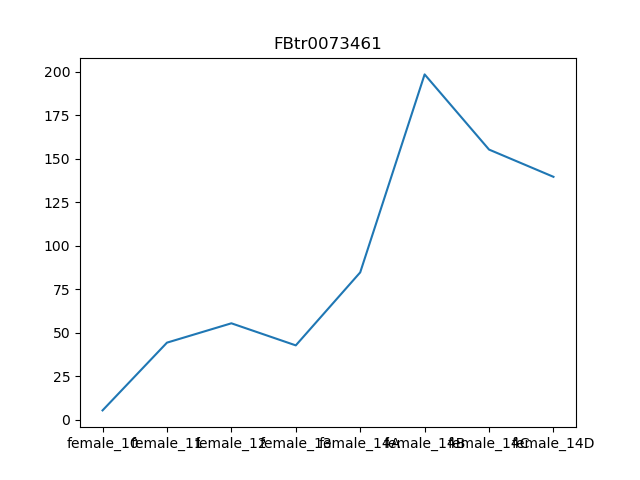
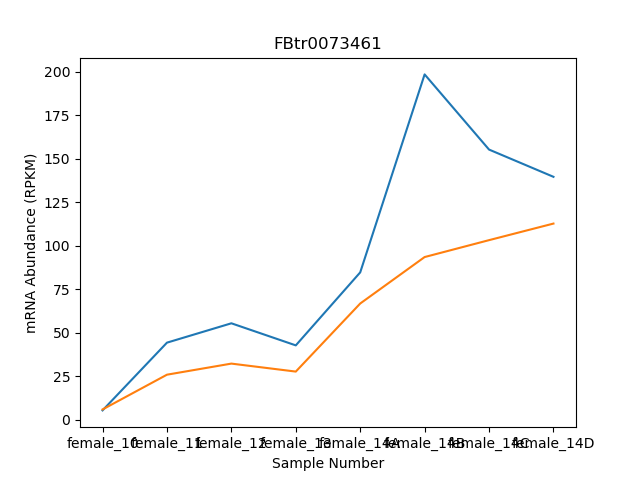
Add answer for exercise 1, step 2

diff --git a/day2-homework/plot-sisA.py b/day2-homework/plot-sisA.py
@@ -21,21 +21,29 @@ for i in range(len(transcripts)):
         row = i
 
 # Find columns with samples of interest
-cols = []
+f_cols = []
+m_cols = []
 for i in range(len(samples)):
     if "female" in samples[i]:
-        cols.append(i)
+        f_cols.append(i)
+    elif "male" in samples[i]:
+        m_cols.append(i)
 
 # Subset data of interest
-expression = data[row, cols]
+f_expression = data[row, f_cols]
+m_expression = data[row, m_cols]
 
 # Prepare data
-x = samples[cols]
-y = expression
+x = samples[f_cols]
+y_f = f_expression
+y_m = m_expression
 
 # Plot data
 fig, ax = plt.subplots()
 ax.set_title( "FBtr0073461" )
-ax.plot( x, y )
+ax.plot( x, y_f )
+ax.plot(x, y_m)
+ax.set_xlabel("Sample Number")
+ax.set_ylabel("mRNA Abundance (RPKM)")
 fig.savefig( "FBtr0073461.png" )
 plt.close( fig )
